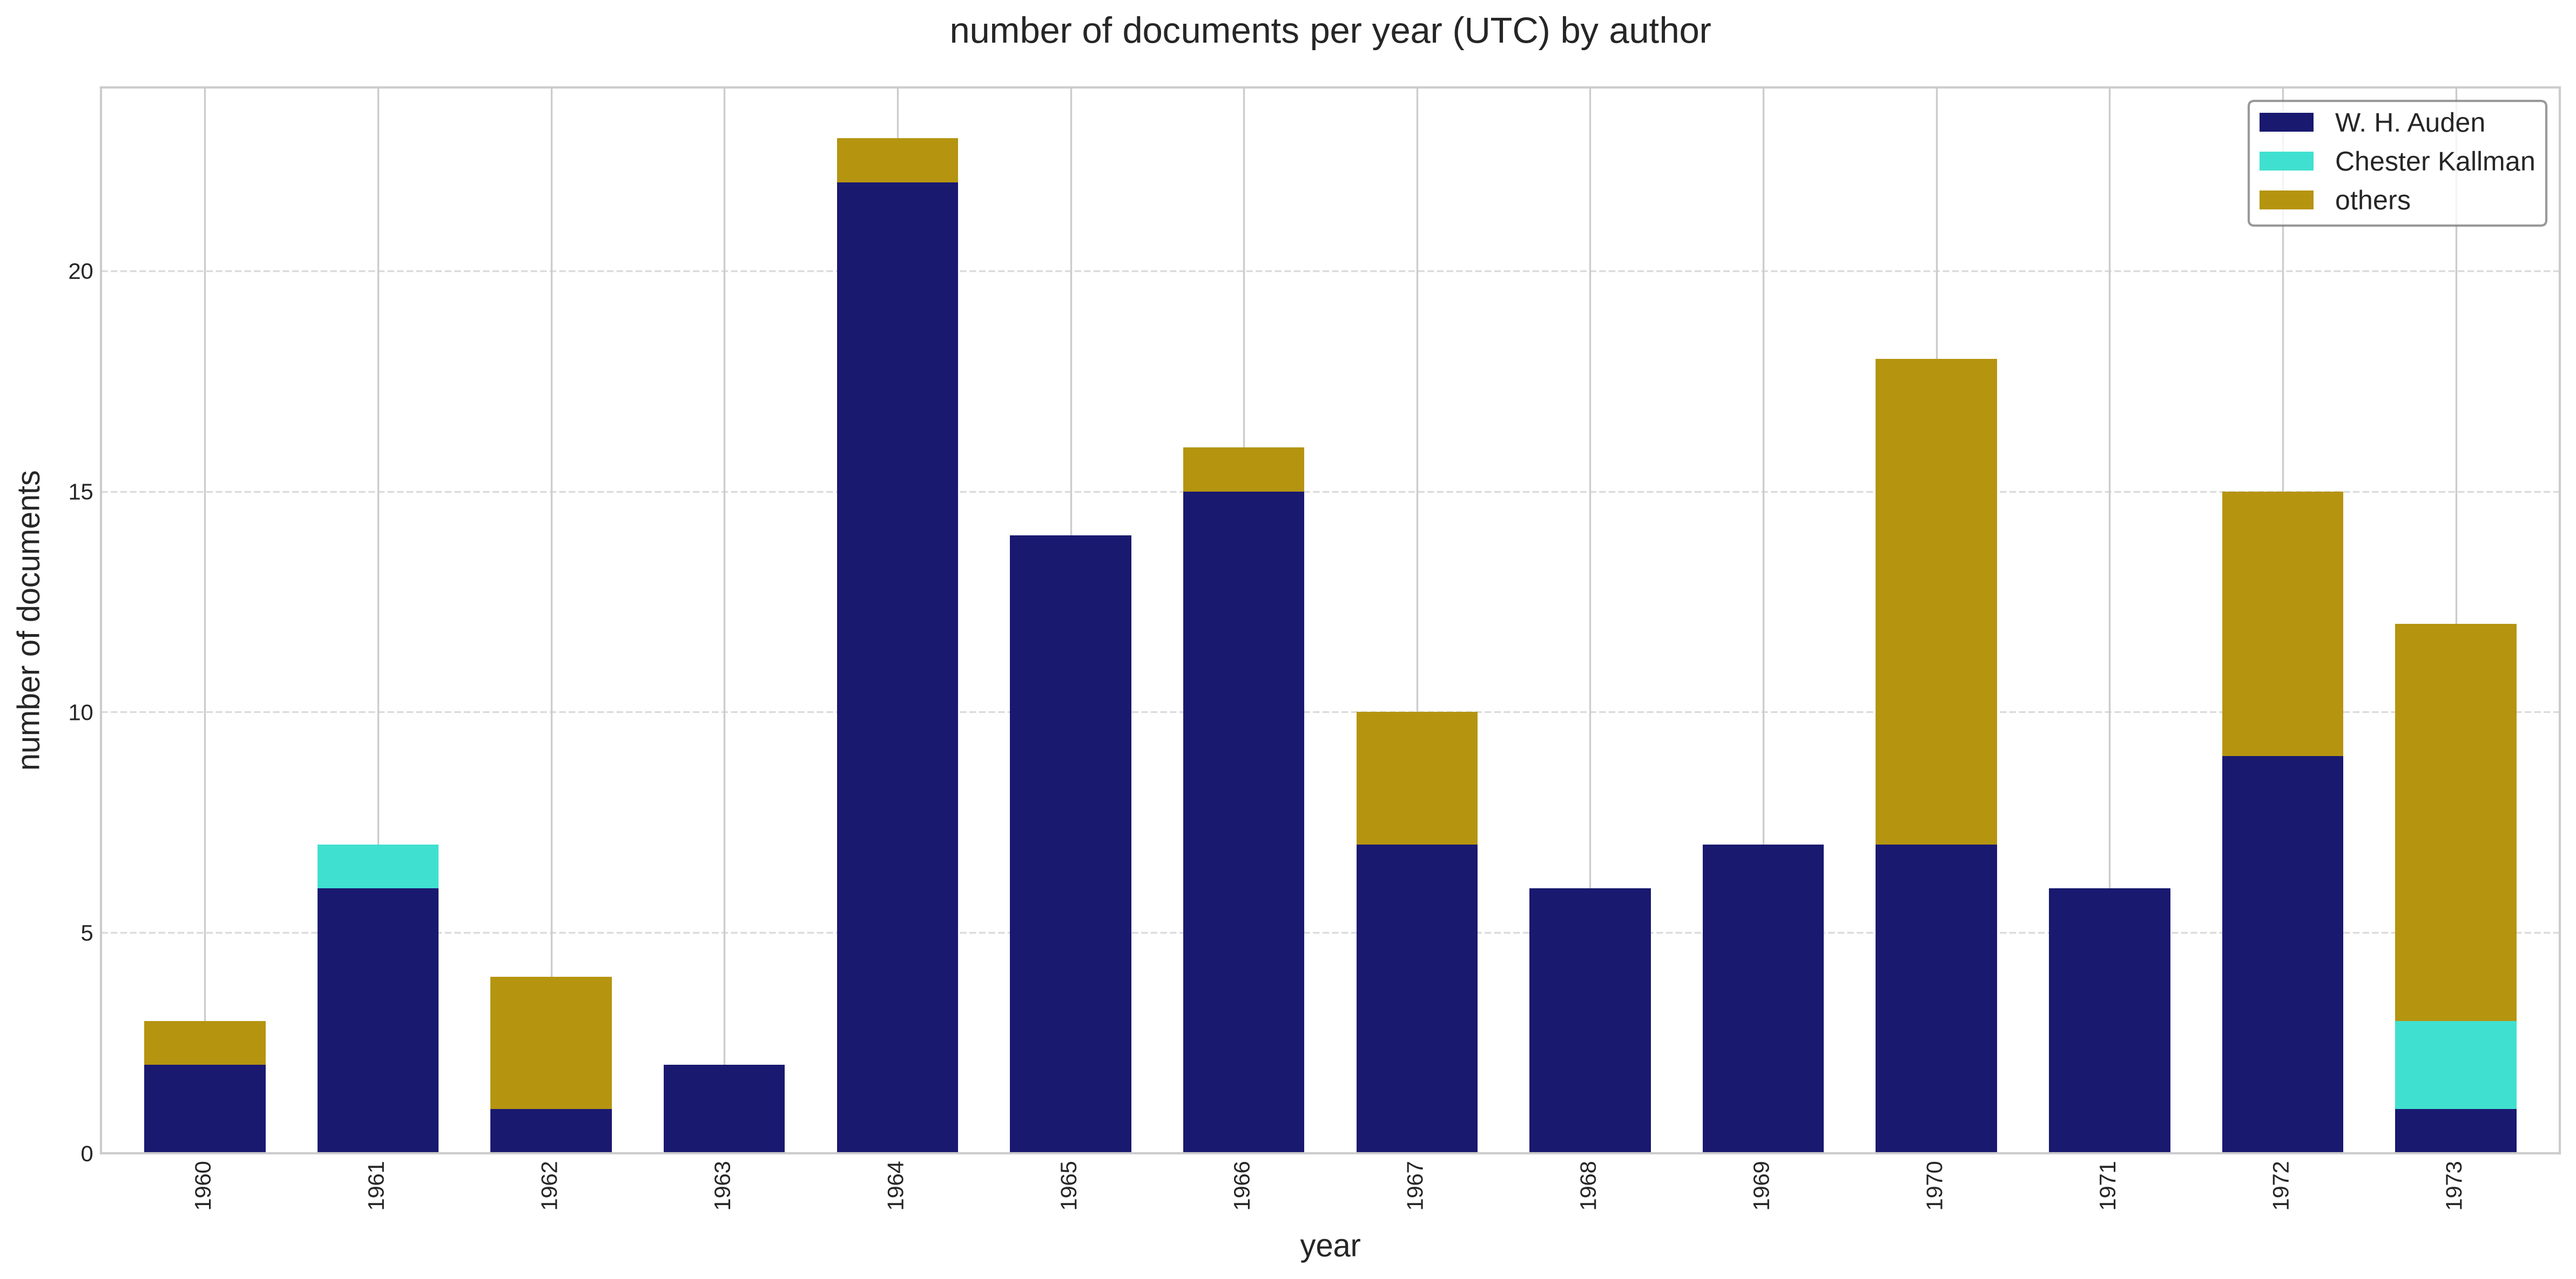
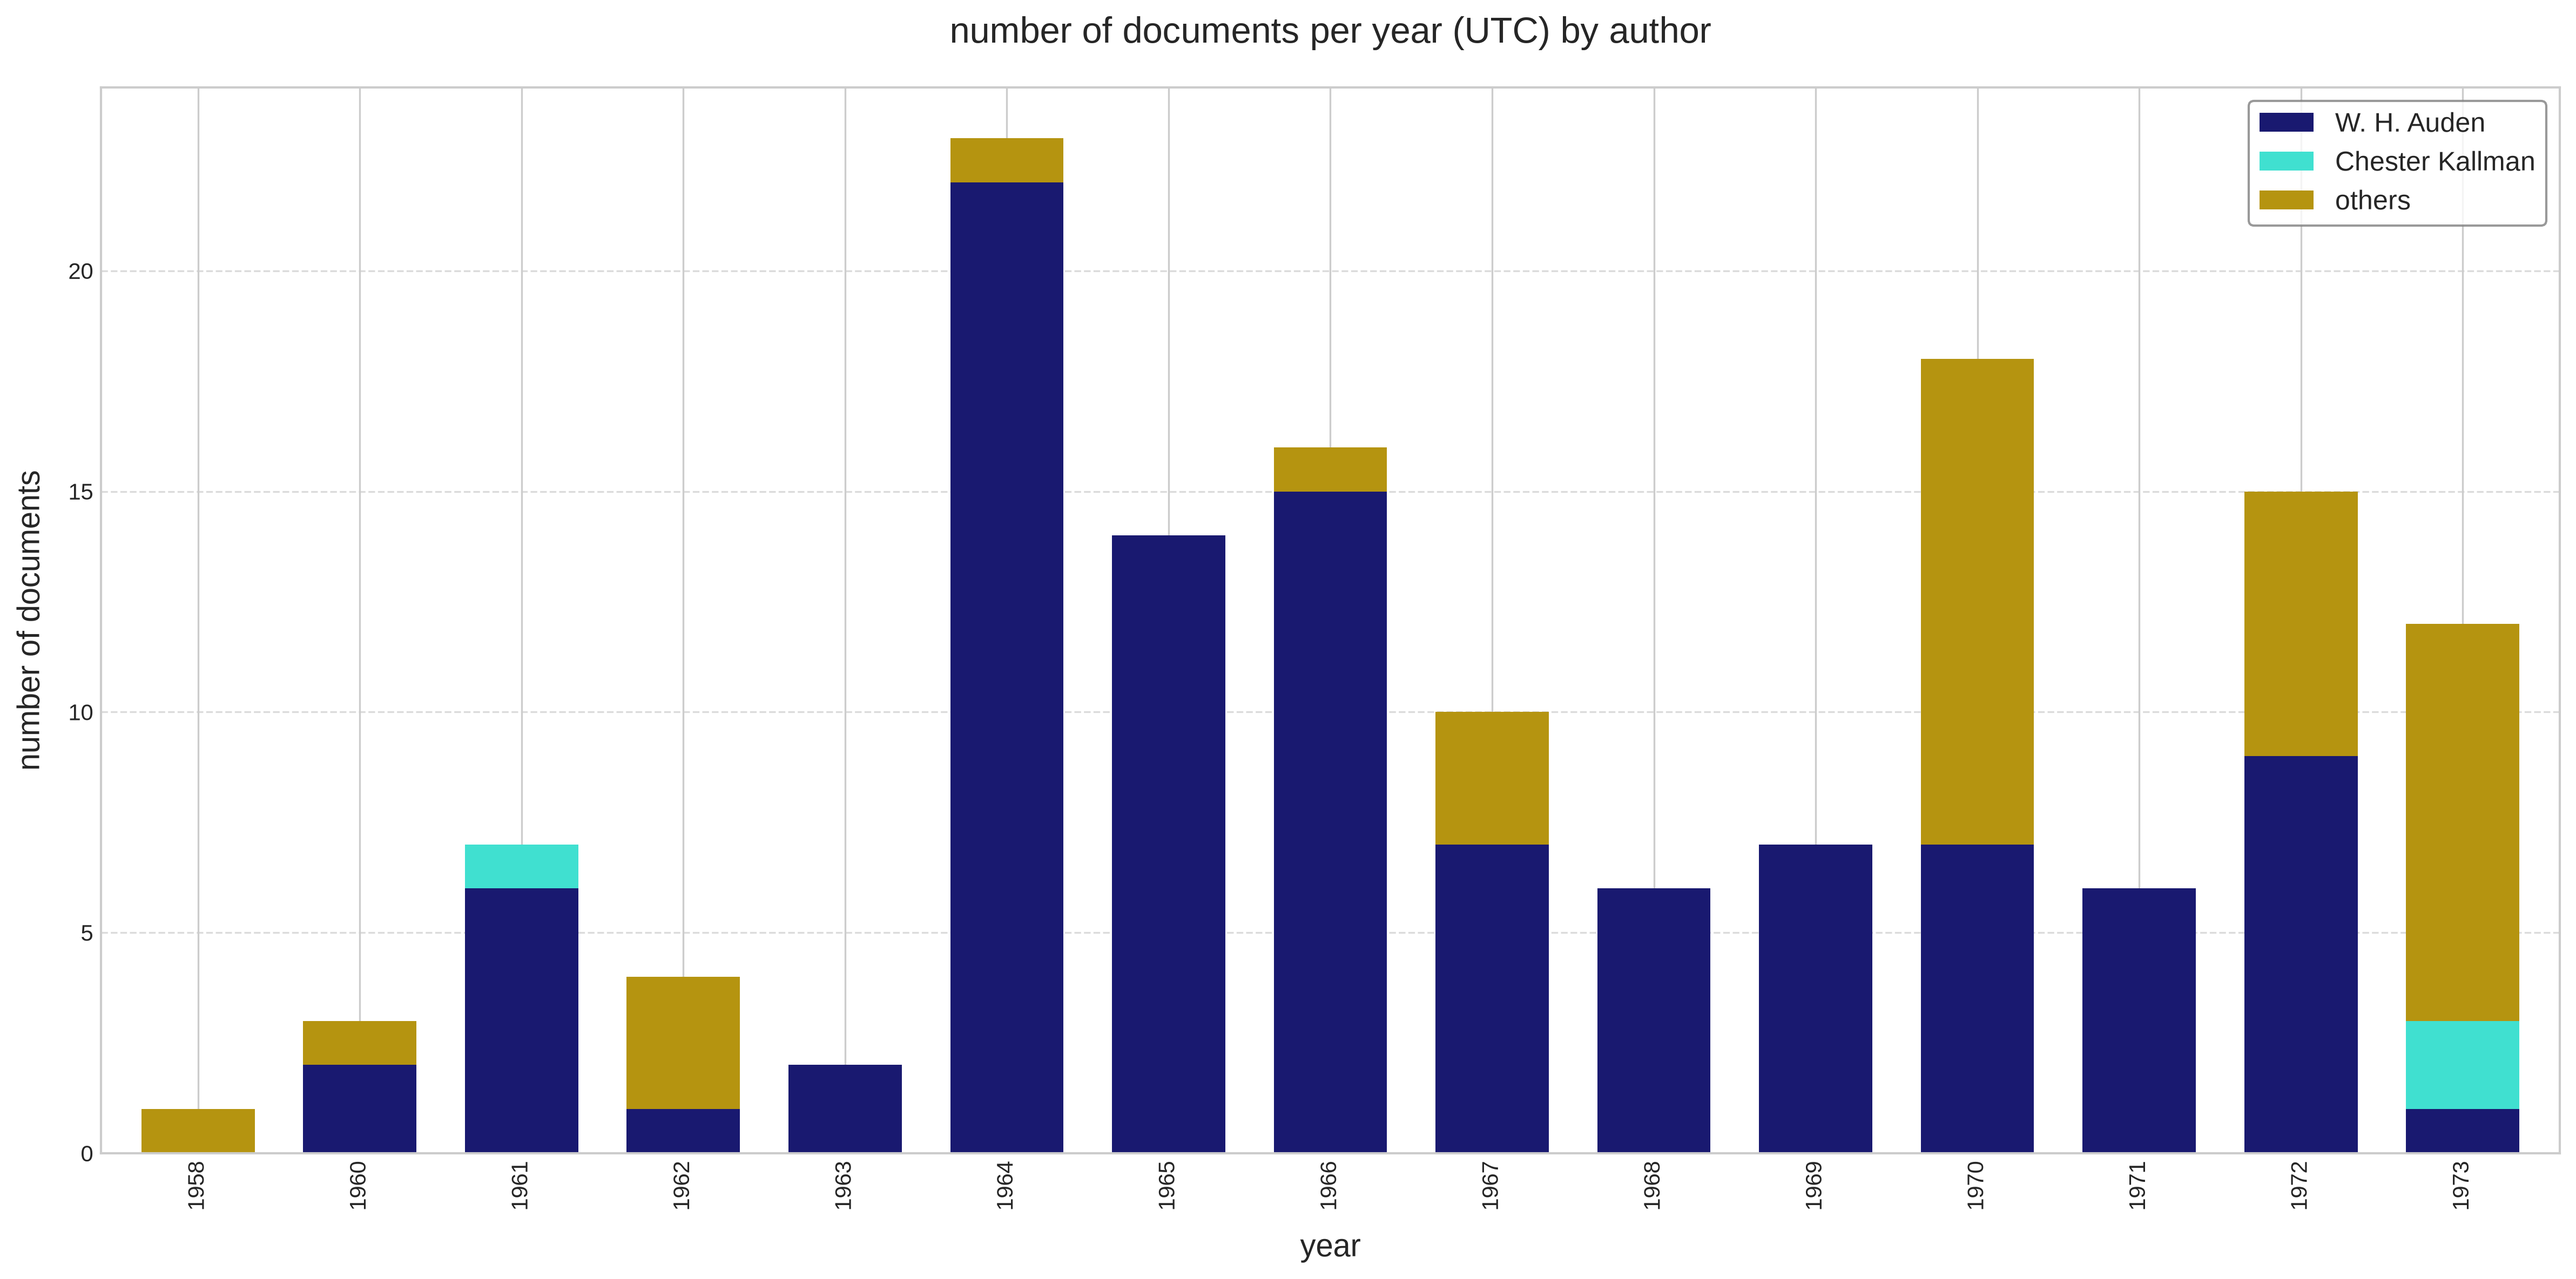
output csv written

diff --git a/metadata/md/metadata-analysis.md b/metadata/md/metadata-analysis.md
@@ -142,6 +142,7 @@ doc
 0136                  Kraus, Wolfgang                                                                                                                     Copy Typed Letter Wolfgang Kraus to W. H. Auden 1966-03-28                         Vienna
 0137                     Auden, W. H.                                                                                                                Autograph Letter Signed W. H. Auden to Hella Bronold 1972-07-03                   Kirchstetten
 0138  Austrian Society for Literature                                                                                                        Copy Typed Notes Austrian Society for Literature 1965-01-01--1967-01-09                         Vienna
+0144                             N.N.                                                                                                                           Photograph House Hinterholz 6 1958-01-07--1973-09-28                   Kirchstetten
 0139                     Auden, W. H.                                                                                                                  Autograph Letter Signed W. H. Auden to Herta Staub 1970-10-06                   Kirchstetten
 0140                     Auden, W. H.                                                                                                                  Autograph Letter Signed W. H. Auden to Herta Staub 1971-05-16                   Kirchstetten
 0141                     Auden, W. H.                                                                                                                  Autograph Letter Signed W. H. Auden to Herta Staub 1971-05-18                   Kirchstetten
@@ -184,30 +185,30 @@ dtype: int64
 ### `df.info()`
 ```
 <class 'pandas.DataFrame'>
-RangeIndex: 428 entries, 0 to 427
+RangeIndex: 430 entries, 0 to 429
 Data columns (total 19 columns):
  #   Column          Non-Null Count  Dtype
 ---  ------          --------------  -----
- 0   img             428 non-null    int64
- 1   lrx             428 non-null    int64
- 2   lry             428 non-null    int64
- 3   width           428 non-null    int64
- 4   height          428 non-null    int64
- 5   type            428 non-null    str  
- 6   ed              428 non-null    str  
- 7   doc             428 non-null    str  
- 8   title           428 non-null    str  
- 9   author          428 non-null    str  
- 10  author-uri      428 non-null    str  
- 11  notBefore-iso   428 non-null    str  
- 12  notAfter-iso    428 non-null    str  
- 13  place           428 non-null    str  
- 14  place-uri       428 non-null    str  
- 15  repository      428 non-null    str  
- 16  repository-uri  428 non-null    str  
- 17  collection      428 non-null    str  
- 18  idno            428 non-null    str  
+ 0   img             430 non-null    int64
+ 1   lrx             430 non-null    int64
+ 2   lry             430 non-null    int64
+ 3   width           430 non-null    int64
+ 4   height          430 non-null    int64
+ 5   type            430 non-null    str  
+ 6   ed              430 non-null    str  
+ 7   doc             430 non-null    str  
+ 8   title           430 non-null    str  
+ 9   author          430 non-null    str  
+ 10  author-uri      430 non-null    str  
+ 11  notBefore-iso   430 non-null    str  
+ 12  notAfter-iso    430 non-null    str  
+ 13  place           430 non-null    str  
+ 14  place-uri       430 non-null    str  
+ 15  repository      430 non-null    str  
+ 16  repository-uri  430 non-null    str  
+ 17  collection      430 non-null    str  
+ 18  idno            430 non-null    str  
 dtypes: int64(5), str(14)
-memory usage: 63.7 KB
+memory usage: 64.0 KB
 
 ```
